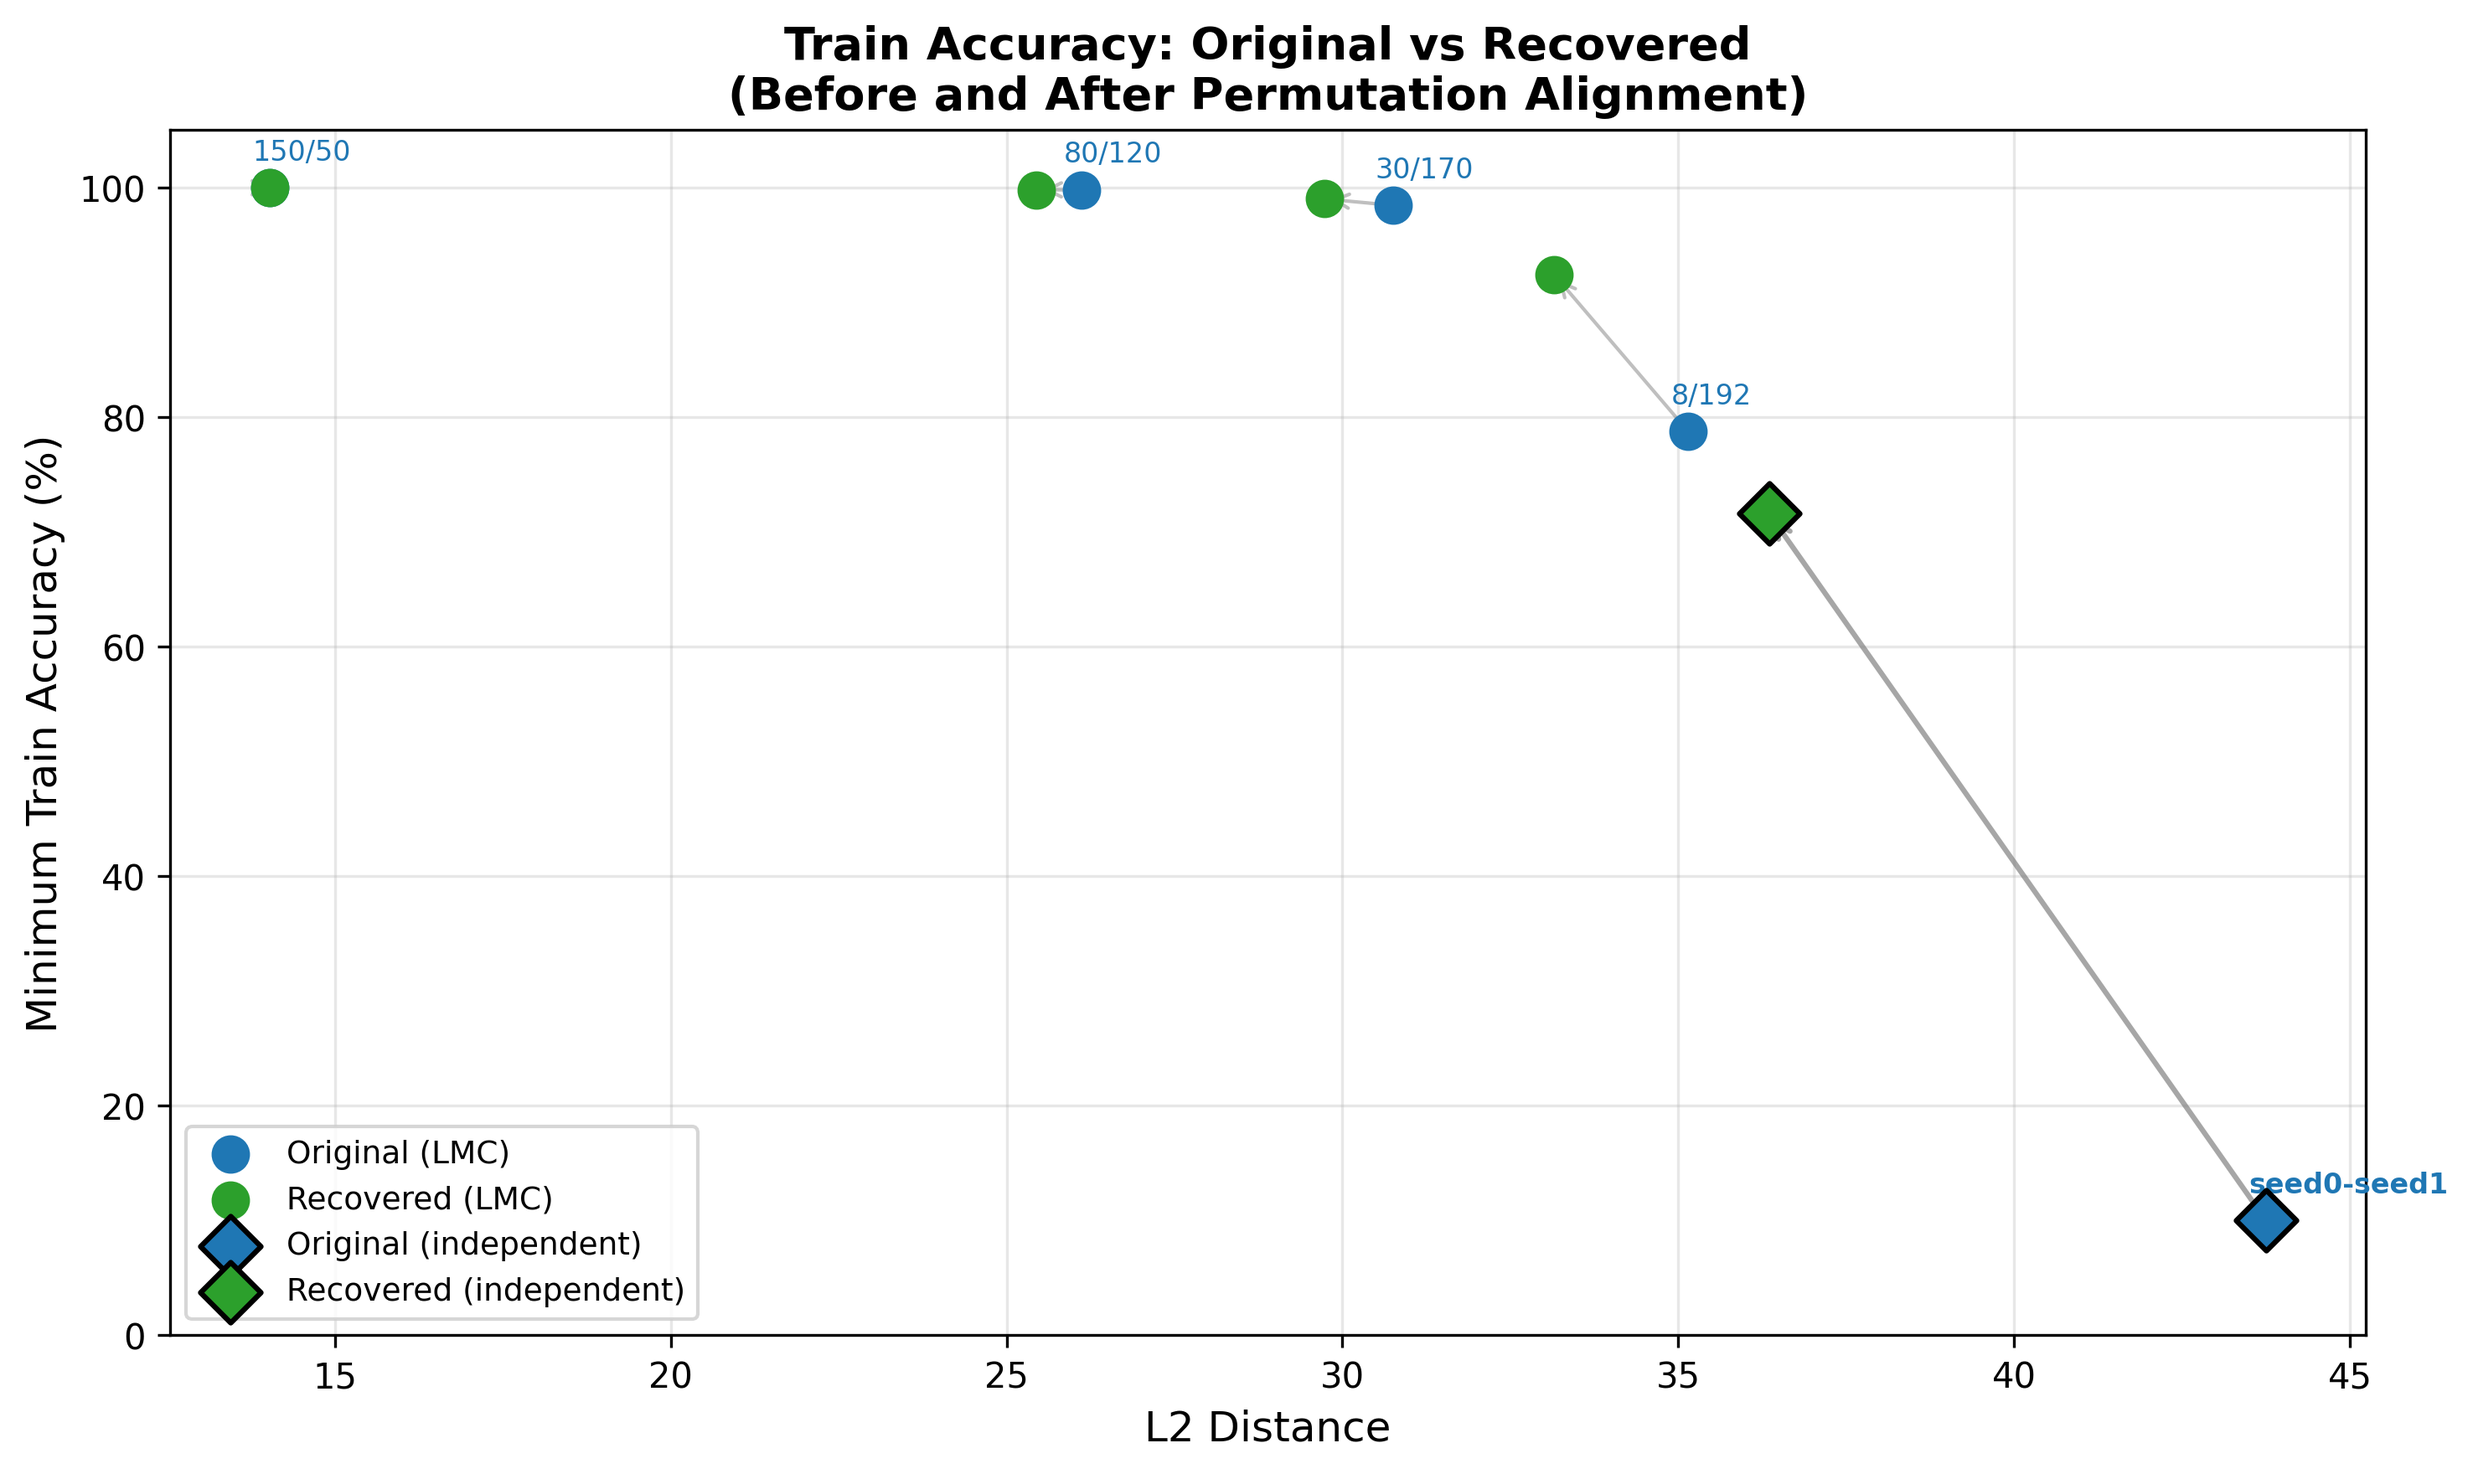
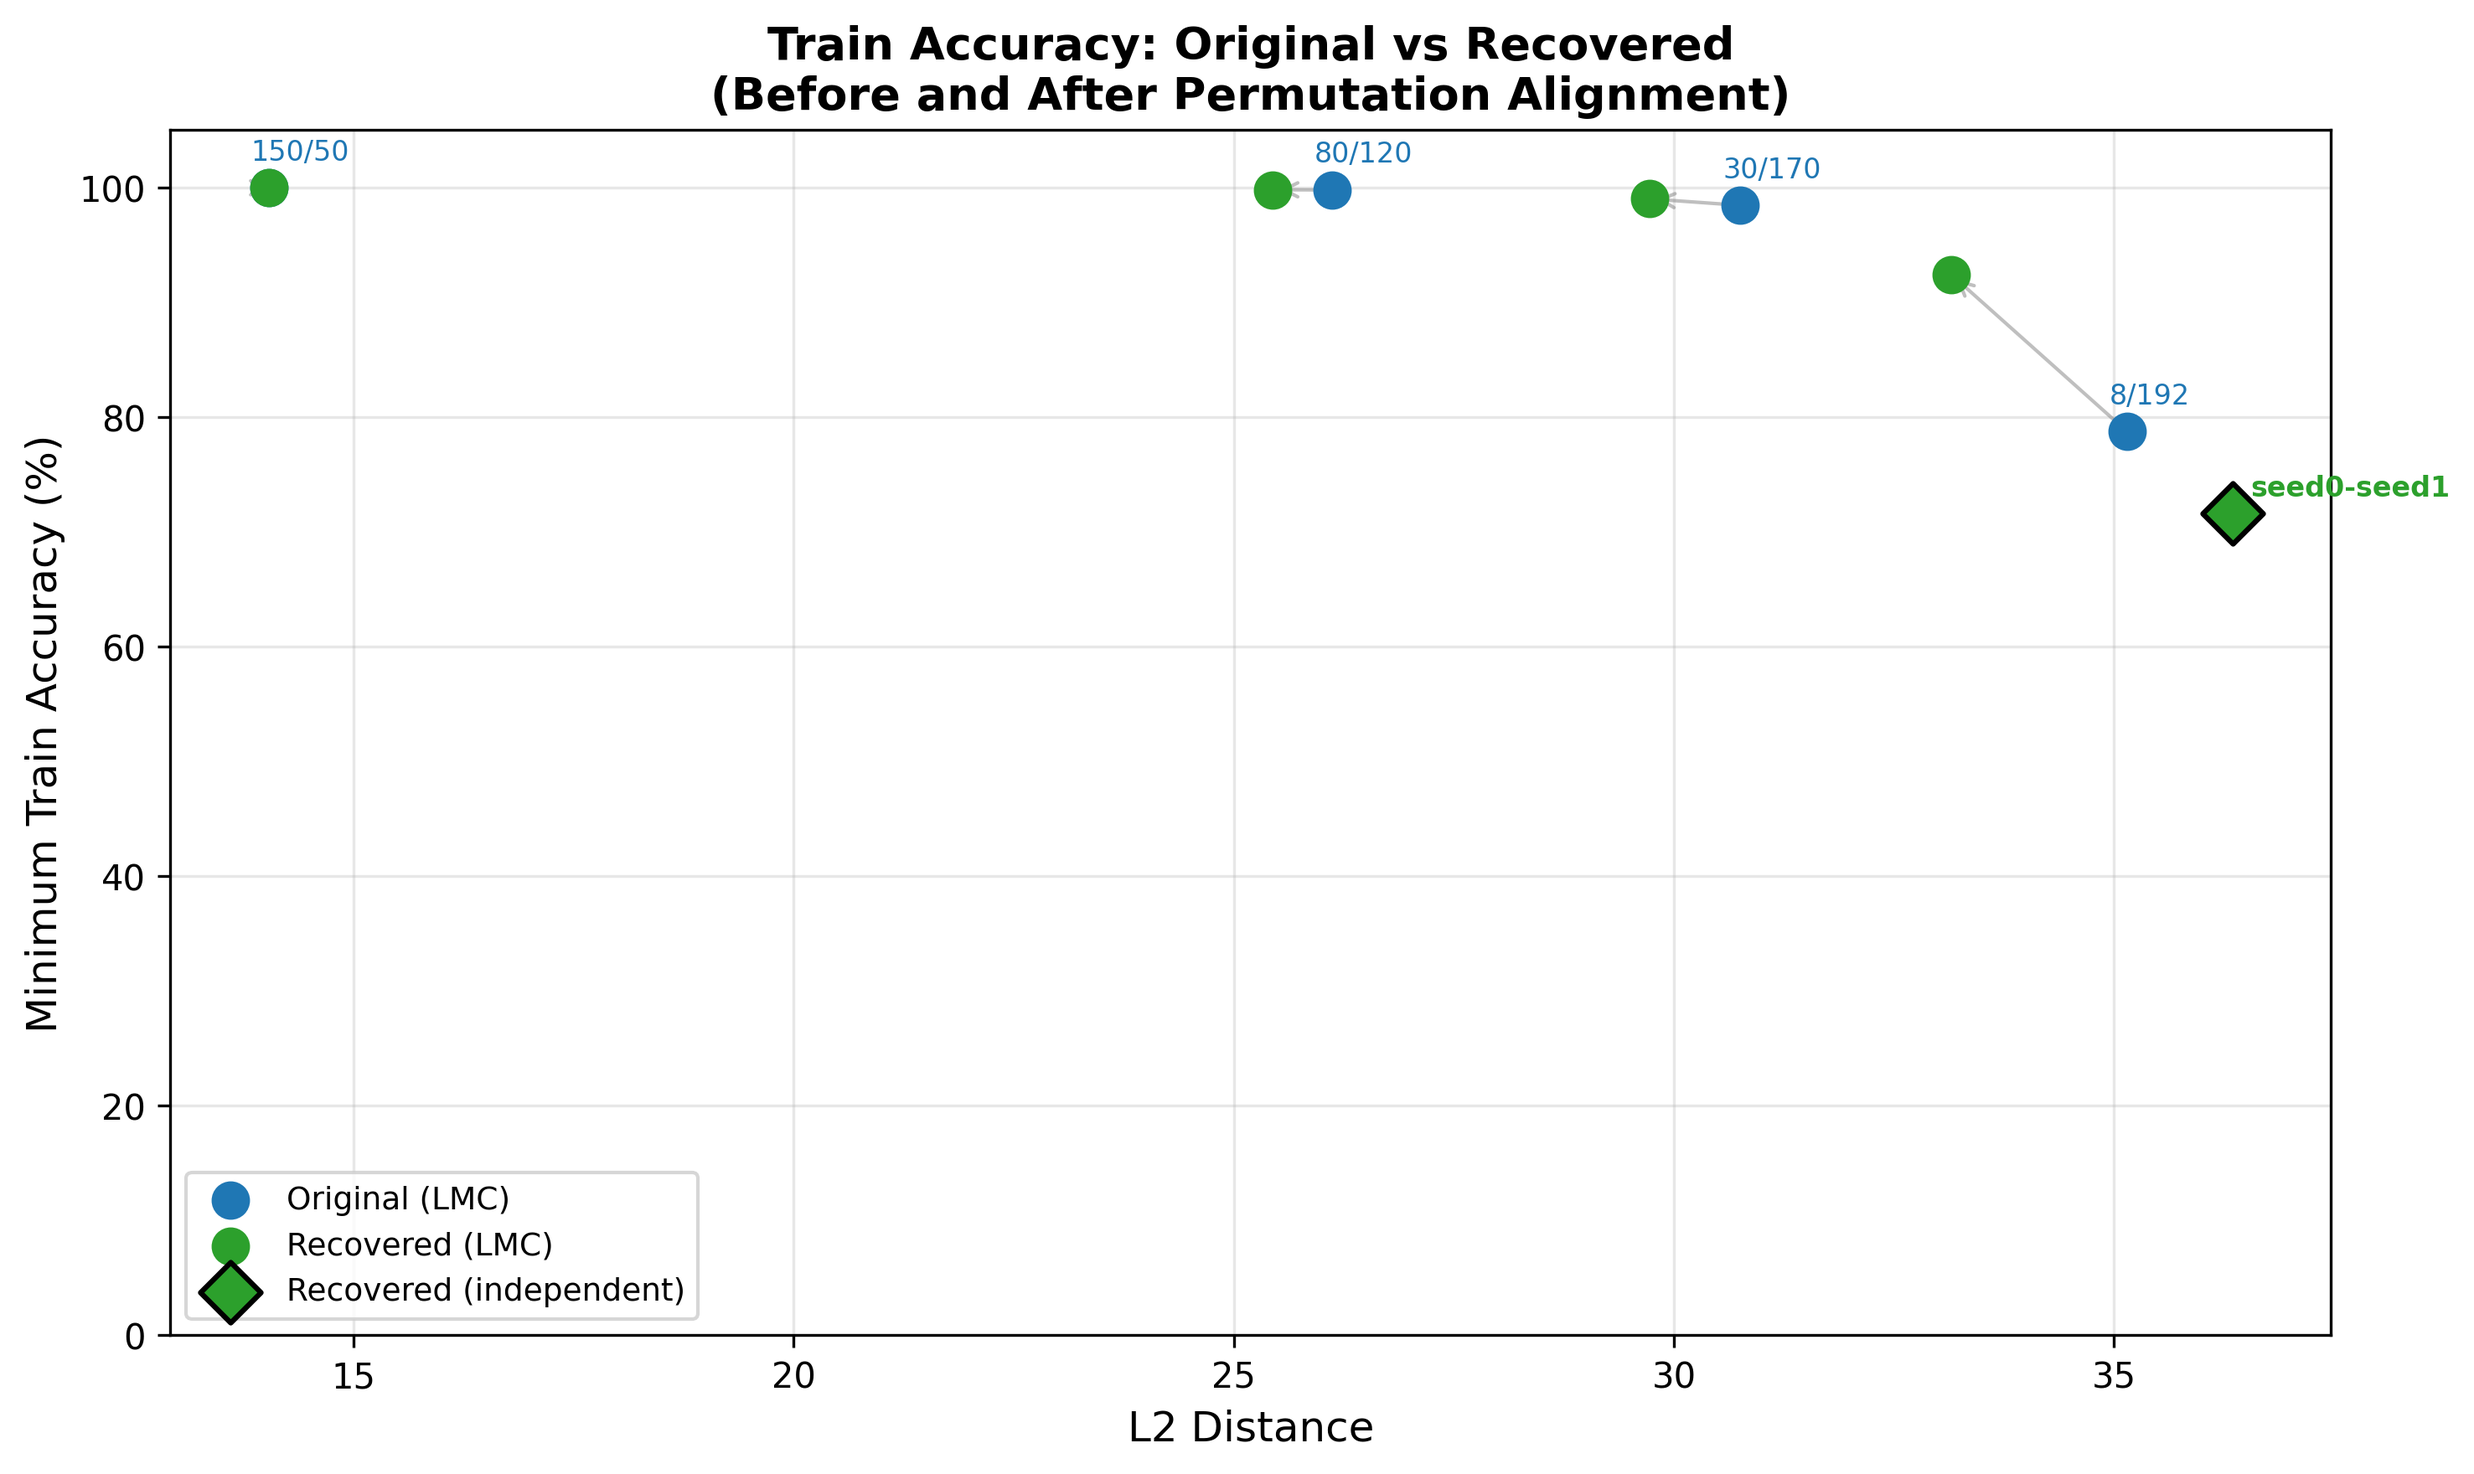
vwece

diff --git a/scripts/plot/plot_alignment_train_accuracy.py b/scripts/plot/plot_alignment_train_accuracy.py
@@ -113,25 +113,17 @@ def main():
                         xytext=(e['w0_w1'], e['org_train_min']),
                         arrowprops=dict(arrowstyle='->', color='gray', alpha=0.5, lw=1))
 
-    # Plot independent experiment - highlighted differently
+    # Plot independent experiment - only recovered point (no original)
     if ind_exps:
         for e in ind_exps:
-            # Original
-            ax.scatter([e['w0_w1']], [e['org_train_min']], c=org_color, marker='D', s=150,
-                       edgecolors='black', linewidths=1.5,
-                       label='Original (independent)', zorder=6)
-            # Recovered
+            # Only plot recovered point for seed0-seed1
             ax.scatter([e['w0_w1_recovered']], [e['rec_train_min']], c=rec_color, marker='D', s=150,
                        edgecolors='black', linewidths=1.5,
                        label='Recovered (independent)', zorder=6)
-            # Label
-            ax.annotate(e['name'], (e['w0_w1'], e['org_train_min']),
-                        textcoords="offset points", xytext=(-5, 8), fontsize=8,
-                        fontweight='bold', color=org_color)
-            # Arrow
-            ax.annotate('', xy=(e['w0_w1_recovered'], e['rec_train_min']),
-                        xytext=(e['w0_w1'], e['org_train_min']),
-                        arrowprops=dict(arrowstyle='->', color='gray', alpha=0.7, lw=1.5))
+            # Label the recovered point
+            ax.annotate(e['name'], (e['w0_w1_recovered'], e['rec_train_min']),
+                        textcoords="offset points", xytext=(5, 5), fontsize=8,
+                        fontweight='bold', color=rec_color)
 
     # Styling
     ax.set_xlabel('L2 Distance', fontsize=12)

diff --git a/scripts/plot/plot_alignment_test_accuracy.py b/scripts/plot/plot_alignment_test_accuracy.py
@@ -113,25 +113,17 @@ def main():
                         xytext=(e['w0_w1'], e['org_test_min']),
                         arrowprops=dict(arrowstyle='->', color='gray', alpha=0.5, lw=1))
 
-    # Plot independent experiment - highlighted differently
+    # Plot independent experiment - only recovered point (no original)
     if ind_exps:
         for e in ind_exps:
-            # Original
-            ax.scatter([e['w0_w1']], [e['org_test_min']], c=org_color, marker='D', s=150,
-                       edgecolors='black', linewidths=1.5,
-                       label='Original (independent)', zorder=6)
-            # Recovered
+            # Only plot recovered point for seed0-seed1
             ax.scatter([e['w0_w1_recovered']], [e['rec_test_min']], c=rec_color, marker='D', s=150,
                        edgecolors='black', linewidths=1.5,
                        label='Recovered (independent)', zorder=6)
-            # Label
-            ax.annotate(e['name'], (e['w0_w1'], e['org_test_min']),
-                        textcoords="offset points", xytext=(-5, 8), fontsize=8,
-                        fontweight='bold', color=org_color)
-            # Arrow
-            ax.annotate('', xy=(e['w0_w1_recovered'], e['rec_test_min']),
-                        xytext=(e['w0_w1'], e['org_test_min']),
-                        arrowprops=dict(arrowstyle='->', color='gray', alpha=0.7, lw=1.5))
+            # Label the recovered point
+            ax.annotate(e['name'], (e['w0_w1_recovered'], e['rec_test_min']),
+                        textcoords="offset points", xytext=(5, 5), fontsize=8,
+                        fontweight='bold', color=rec_color)
 
     # Styling
     ax.set_xlabel('L2 Distance', fontsize=12)

diff --git a/scripts/train/run_lmc_connected_pair_from_scratch.py b/scripts/train/run_lmc_connected_pair_from_scratch.py
@@ -72,7 +72,7 @@ def main(cfg: DictConfig):
         print("  No training - just saving initial random weights")
         print("=" * 70)
 
-        # Create and save the initial model
+        # Create and save the initial model with optimizer state
         import torch
         import sys
         sys.path.insert(0, repo_root)
@@ -83,11 +83,20 @@ def main(cfg: DictConfig):
         num_classes = 10 if cfg.dataset == 'CIFAR10' else 100
         model = model_class.base(num_classes=num_classes)
 
-        # Save as checkpoint-0.pt
+        # Create optimizer to save its initial state (required for --resume)
+        optimizer = torch.optim.SGD(
+            model.parameters(),
+            lr=cfg.lr,
+            momentum=0.9,
+            weight_decay=cfg.wd
+        )
+
+        # Save as checkpoint-0.pt with optimizer state
         shared_checkpoint = os.path.join(shared_dir, "checkpoint-0.pt")
         torch.save({
             'epoch': 0,
             'model_state': model.state_dict(),
+            'optimizer_state': optimizer.state_dict(),
         }, shared_checkpoint)
         print(f"Saved initial random weights to: {shared_checkpoint}")
 
